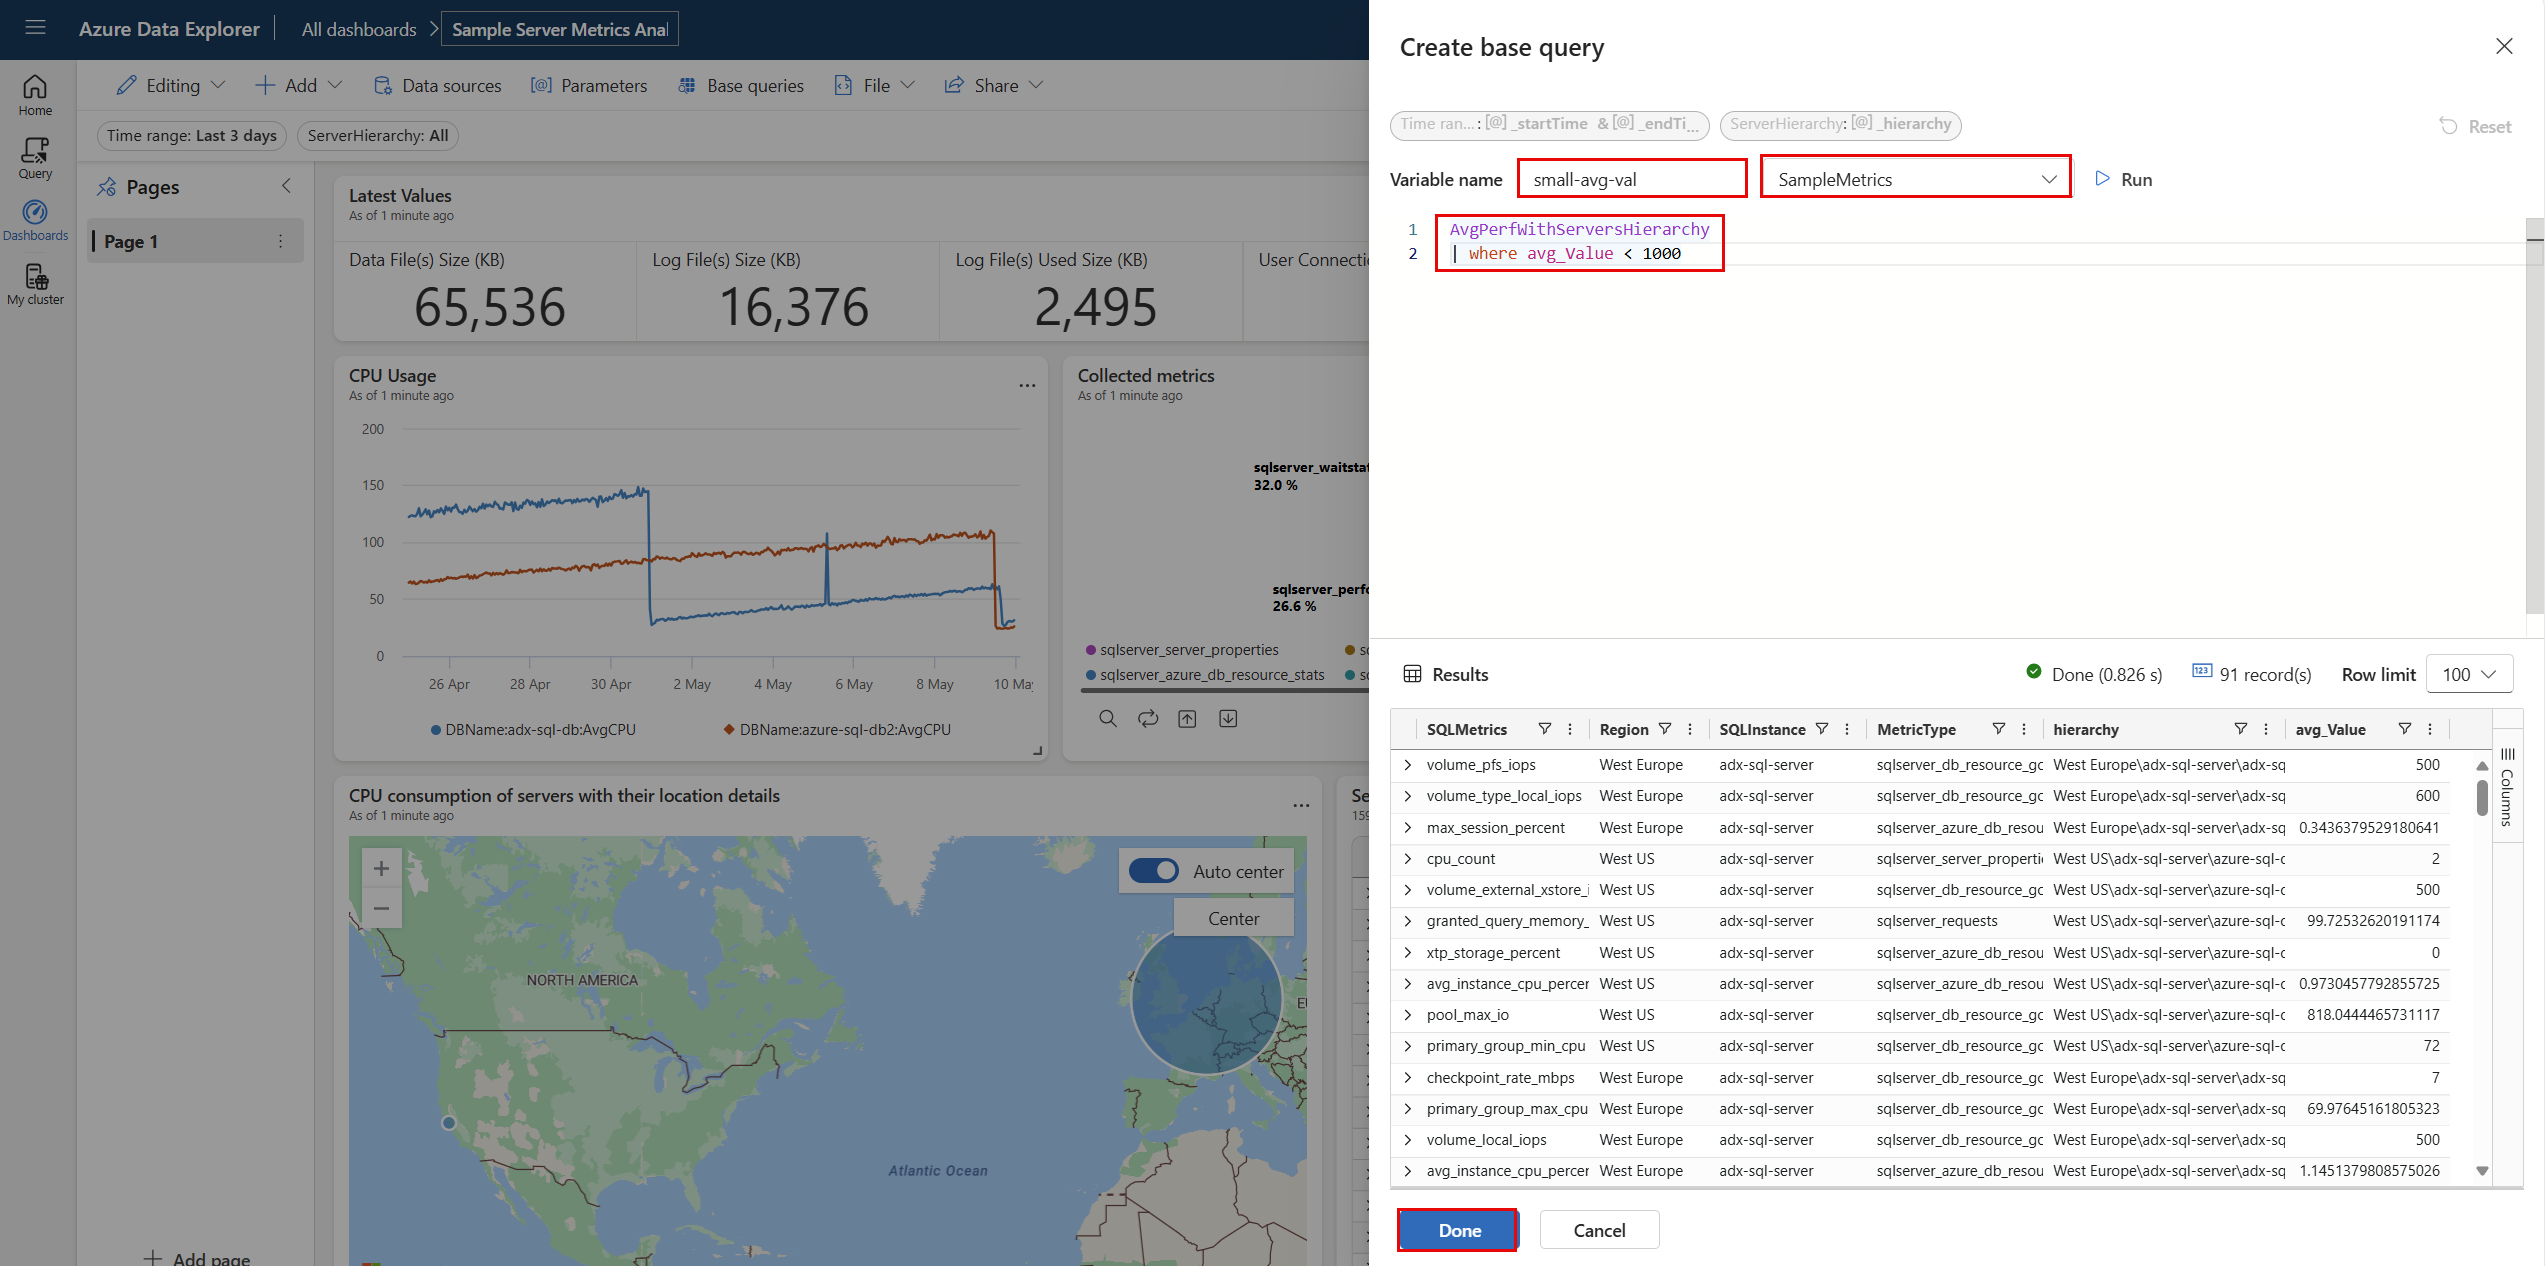
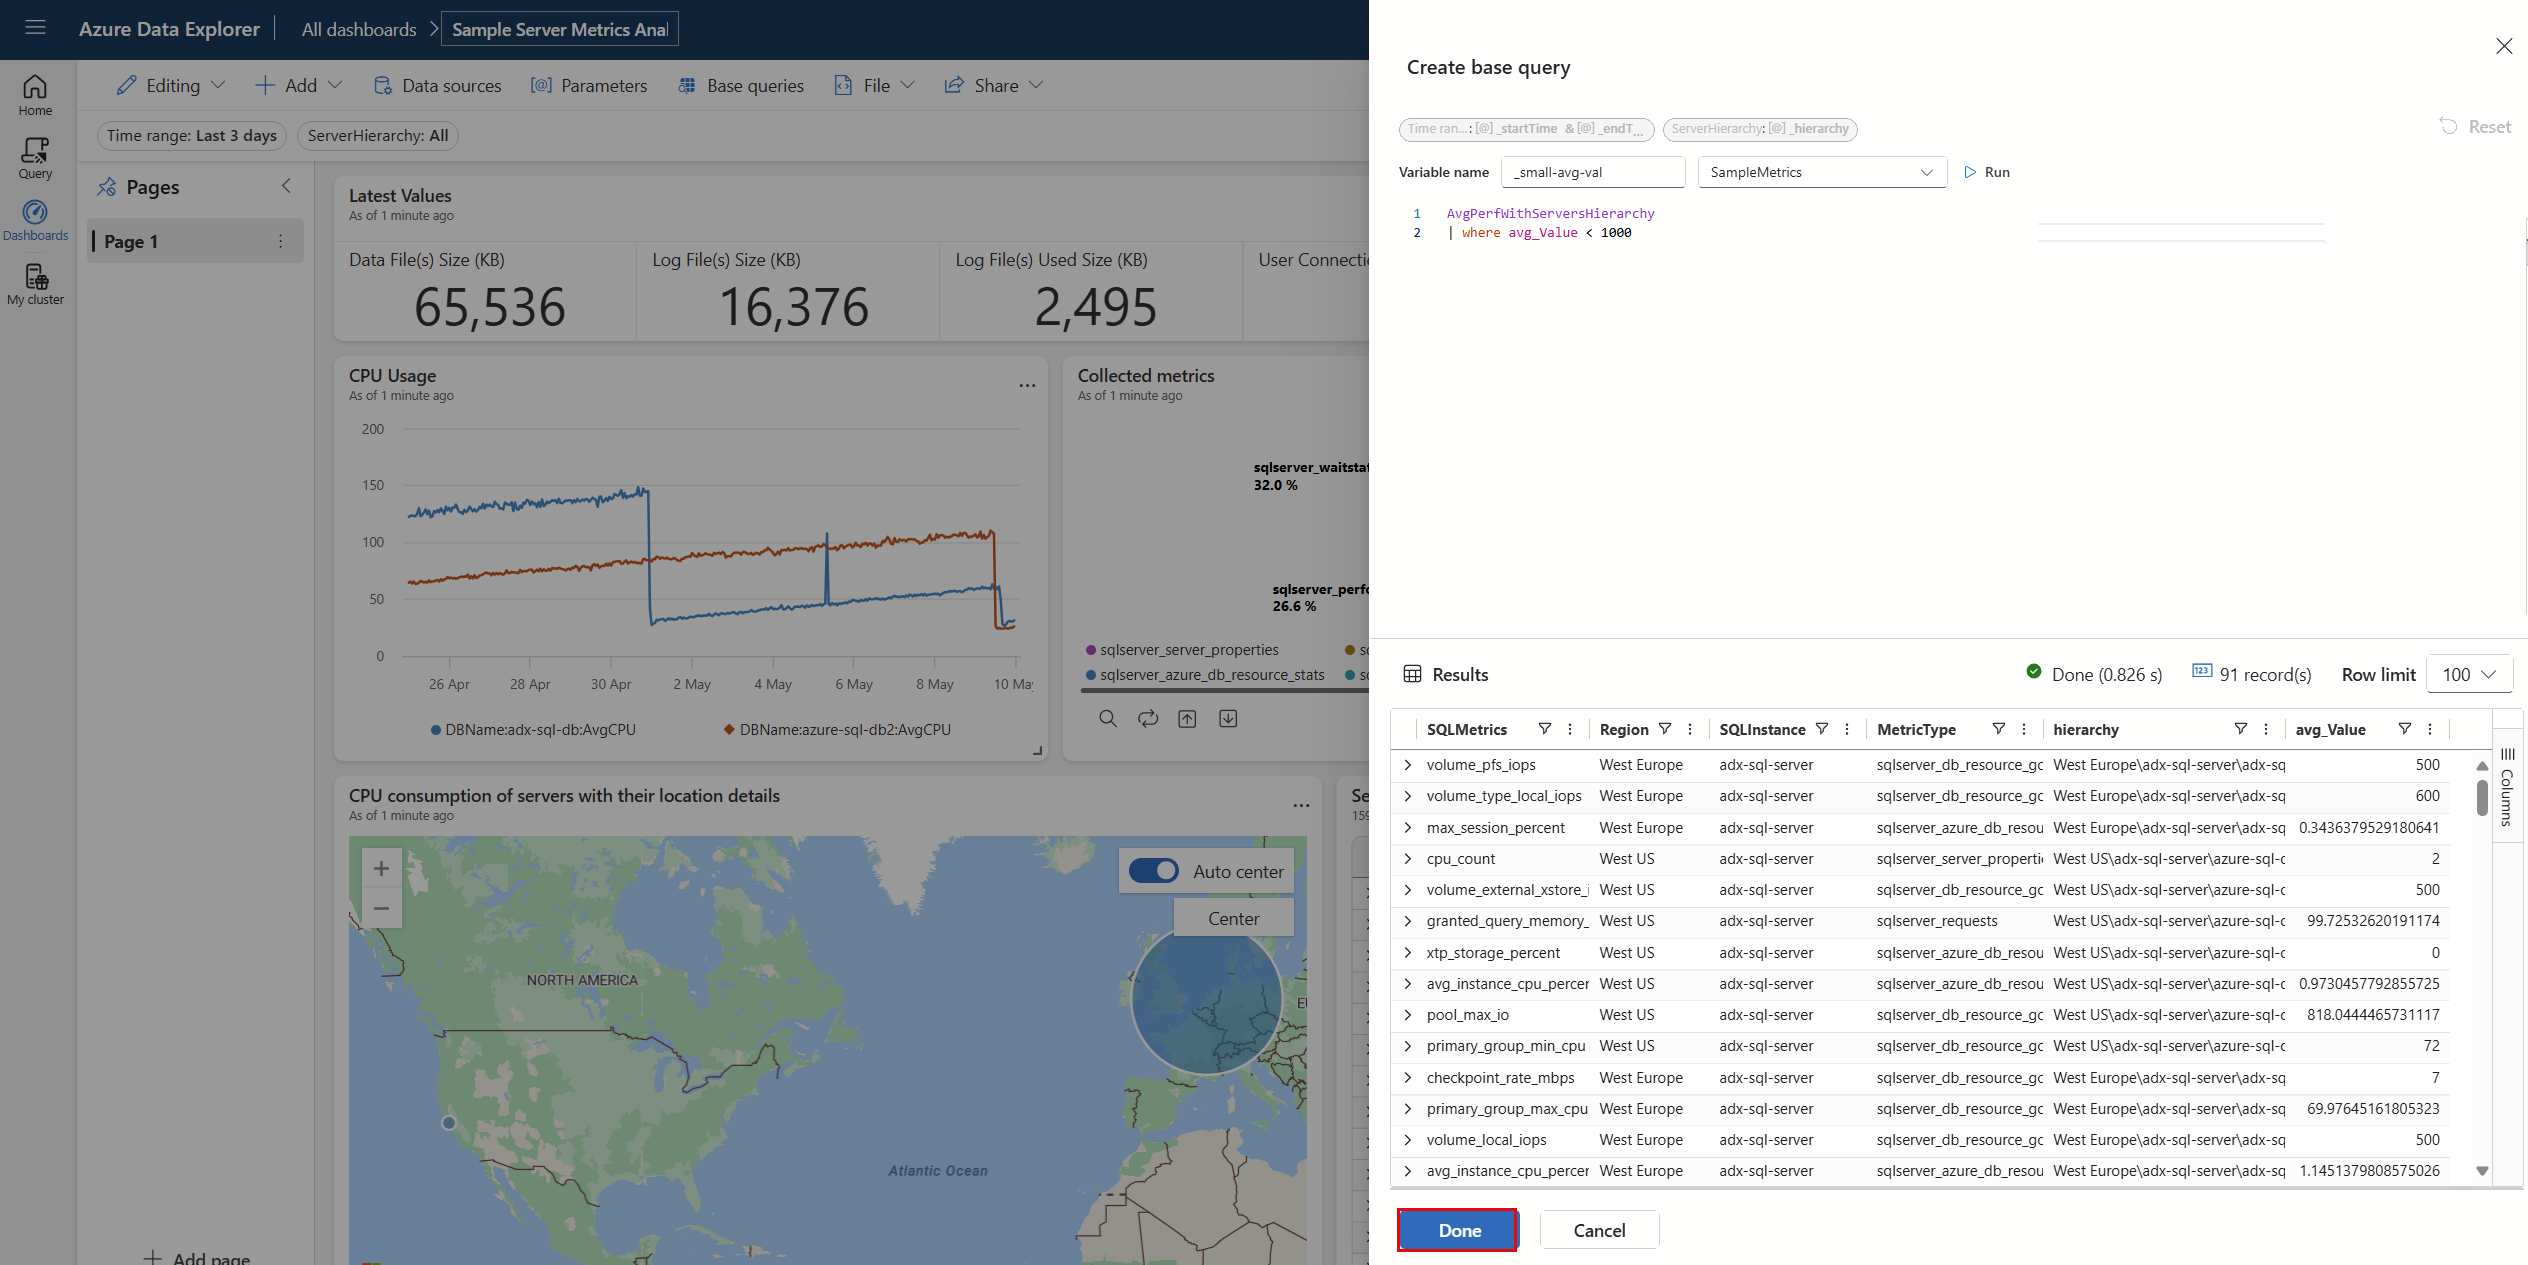
fixed image + added lightbox

diff --git a/data-explorer/base-query.md b/data-explorer/base-query.md
@@ -3,7 +3,7 @@ title: Create a dashboard base query
 description: Learn how to create a base query for an Azure Data Explorer dashboard.
 ms.reviewer: gabil
 ms.topic: how-to
-ms.date: 08/26/2025
+ms.date: 01/12/2026
 ---
 # Create a dashboard base query
 
@@ -43,7 +43,7 @@ To interactively explore sample dashboards, see [Quickstart: Visualize sample da
     > [!NOTE]
     > We suggest starting each base query name with an underscore (_) for easy use later, and so as not to conflict with Kusto-defined names. For more information, see [naming your entities](/kusto/query/schema-entities/entity-names?view=azure-data-explorer&preserve-view=true)
 
-    :::image type="content" source="media/base-query/create-base-query.png" alt-text="Screenshot of create base query in Azure Data Explorer dashboards.":::
+    :::image type="content" source="media/base-query/create-base-query.png" alt-text="Screenshot of create base query in Azure Data Explorer dashboards." lightbox="media/base-query/create-base-query_small.png":::
 
 1. Select a data **Source** from the dropdown.
 1. Enter the KQL query that will be used as the base query. This query can optionally contain other base queries.
